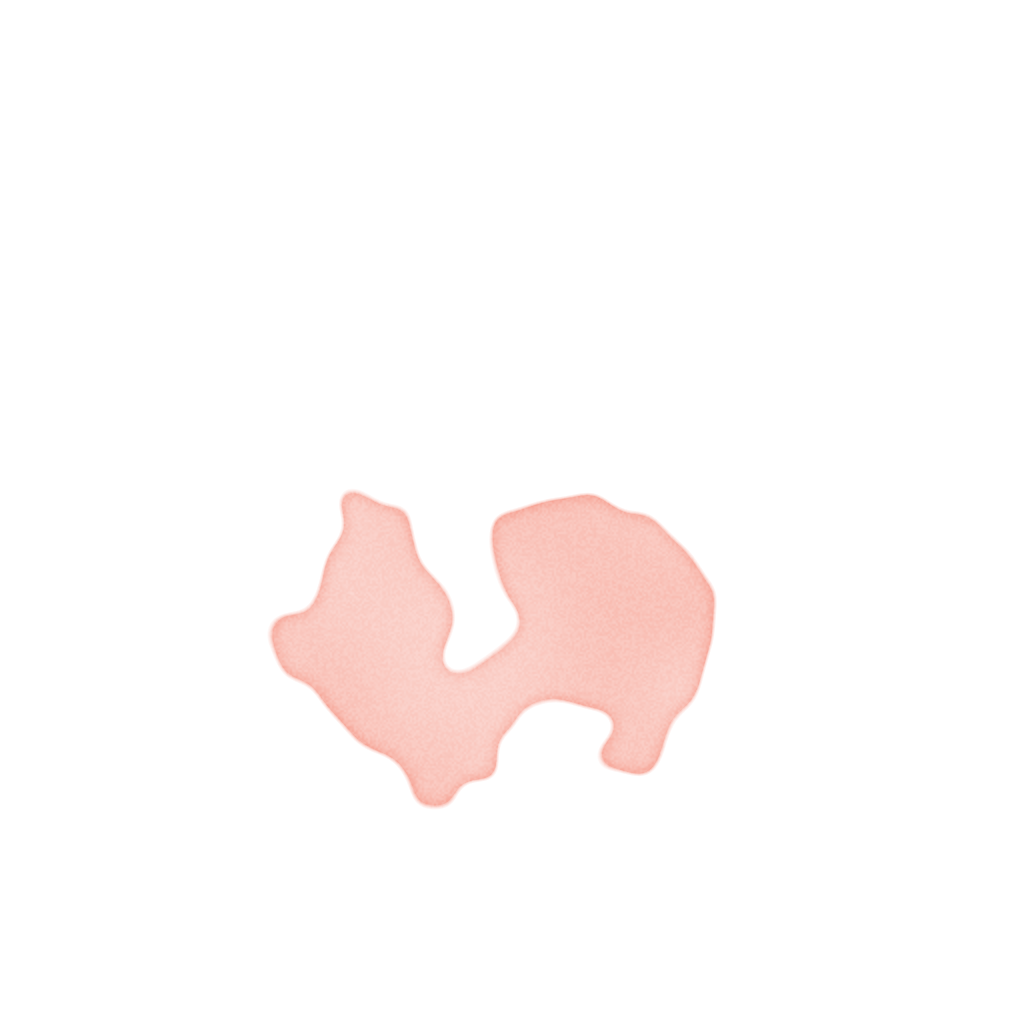
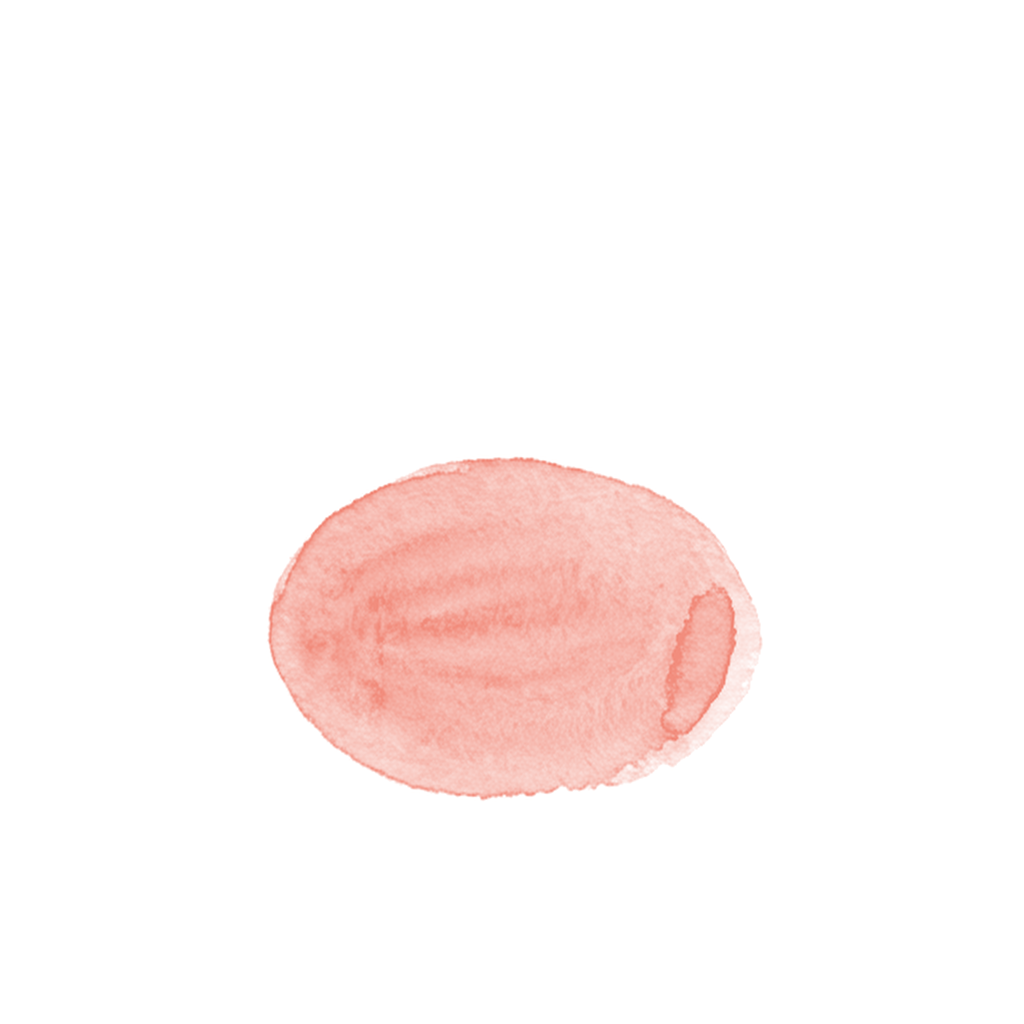
Watercolor comes from real painted patches, never from code
Code-computed tints read as flat fills. scripts/washes.py cuts a generated
swatch sheet into painted patches; color.py places the best-fitting patch
behind each chosen region, slightly larger, tilted and offset. The style
spec now states the rule and the two versions of every accepted drawing.

Changed region(s): [[0.25, 0.4375, 0.75, 0.8125]]

diff --git a/scripts/color.py b/scripts/color.py
@@ -1,17 +1,18 @@
-"""Paint loose coral watercolor into chosen regions of an ink drawing.
+"""Place real coral watercolor patches behind chosen regions of an ink drawing.
 
 usage:
   python3 -I scripts/color.py DIR --list
       writes DIR/regions.png: every closed region of the drawing with a number
-  python3 -I scripts/color.py DIR --regions 3,7,12 [--seed 1] [--close 9]
+  python3 -I scripts/color.py DIR --regions 6,7+8 [--patch wide] [--seed 1] [--close 9]
       writes DIR/color-wash.png (the watercolor layer), DIR/version-color.jpg
       (paper + watercolor + ink) and DIR/version-ink.jpg (paper + ink only)
 
-DIR holds layer-ink.png (from layers.py). A region is a connected area of paper
+DIR holds layer-ink.png (from layers.py). Regions joined by + get one patch
+together. The watercolor is never painted by code: a real painted patch from
+library/_washes (scripts/washes.py) is chosen by shape, scaled a little larger
+than the region, tilted and offset, and placed behind the ink. A region is a connected area of paper
 enclosed by ink; gaps narrower than --close (in half-size pixels) are closed
-first, because hand-drawn contours are often open. The watercolor follows the region loosely: it is shifted a
-little, its edge is irregular, it pools darker at the rim and carries paper
-grain, as references/style.md section 8 asks.
+first, because hand-drawn contours are often open.
 """
 import json
 import sys
@@ -20,7 +21,7 @@ import numpy as np
 from PIL import Image, ImageDraw, ImageFilter, ImageFont
 
 PAPER = (244, 242, 236)
-CORAL = (244, 142, 124)
+CORAL = (240, 128, 110)
 
 
 def opt(name, default=None):
@@ -108,22 +109,49 @@ def main():
         base.save(f"{d}/regions.png")
         print(f"{d}/regions.png: {len(keep)} regions")
         return
-    chosen = [int(v) for v in opt("--regions", "").split(",") if v]
+    groups = [[int(v) for v in g.split("+")] for g in opt("--regions", "").split(",") if g]
+    chosen = [i for g in groups for i in g]
+    forced = opt("--patch")
     rng = np.random.default_rng(int(opt("--seed", "1")))
-    small_mask = np.isin(lab, chosen).astype(np.float32)
-    if grow > 1:
-        img = Image.fromarray((small_mask * 255).astype(np.uint8))
-        small_mask = np.asarray(img.filter(ImageFilter.MaxFilter(grow | 1))).astype(np.float32) / 255
-    mask = np.asarray(Image.fromarray((small_mask * 255).astype(np.uint8)).resize(ink_img.size, Image.BILINEAR)).astype(np.float32) / 255
-    h, w = mask.shape
-    dx, dy = (rng.random(2) - 0.5) * 0.03 * w
-    shifted = np.roll(np.roll(mask, int(dy), 0), int(dx), 1)
-    loose = blur(shifted, 9) + (noise((h, w), 40, rng) - 0.5) * 0.55
-    body = np.clip((loose - 0.42) * 6, 0, 1)
-    rim = np.clip(body - blur(body, 7), 0, 1) * 1.6
-    density = 0.42 + 0.18 * noise((h, w), 90, rng) + rim * 0.35
-    grain = 0.8 + 0.2 * noise((h, w), 2, rng)
-    alpha = np.clip(body * density * grain, 0, 0.85)
+    root = __file__.rsplit("/scripts/", 1)[0]
+    import glob
+    patches = []
+    for f in sorted(glob.glob(f"{root}/library/_washes/patch-*.png")):
+        meta = json.load(open(f[:-4] + ".json"))
+        patches.append((f, meta))
+    if not patches:
+        print("no watercolor patches in library/_washes: run scripts/washes.py on a generated swatch sheet first")
+        sys.exit(1)
+    W, H = ink_img.size
+    wash = np.zeros((H, W), np.float32)
+    for g in groups:
+        ys, xs = np.nonzero(np.isin(lab, g))
+        x0, x1, y0, y1 = xs.min() * 2, xs.max() * 2, ys.min() * 2, ys.max() * 2
+        bw, bh = x1 - x0, y1 - y0
+        aspect = bw / max(1, bh)
+        pool = [p for p in patches if p[1].get("kind") not in ("heart", "splash")]
+        if forced:
+            pool = [p for p in patches if p[1].get("kind") == forced or p[0].endswith(f"patch-{forced.zfill(2)}.png")]
+        pool.sort(key=lambda p: abs(np.log(p[1]["aspect"] / aspect)))
+        f, meta = pool[min(len(pool) - 1, int(rng.integers(0, 2)))]
+        over = 1.12 + rng.random() * 0.12
+        tw, th = int(bw * over), int(bh * over)
+        patch = Image.open(f).resize((max(8, tw), max(8, th)), Image.LANCZOS).rotate(float((rng.random() - 0.5) * 10), expand=True, resample=Image.BICUBIC)
+        pa = np.asarray(patch).astype(np.float32)[..., 3] / 255
+        cx = (x0 + x1) / 2 + (rng.random() - 0.5) * 0.12 * bw
+        cy = (y0 + y1) / 2 + (rng.random() - 0.5) * 0.12 * bh
+        px, py = int(cx - pa.shape[1] / 2), int(cy - pa.shape[0] / 2)
+        sx0, sy0 = max(0, -px), max(0, -py)
+        dx0, dy0 = max(0, px), max(0, py)
+        dx1, dy1 = min(W, px + pa.shape[1]), min(H, py + pa.shape[0])
+        if dx1 <= dx0 or dy1 <= dy0:
+            continue
+        piece = pa[sy0:sy0 + dy1 - dy0, sx0:sx0 + dx1 - dx0]
+        region = wash[dy0:dy1, dx0:dx1]
+        wash[dy0:dy1, dx0:dx1] = 1 - (1 - region) * (1 - piece)
+        print(f"regions {g}: {meta.get('kind')} patch, {tw}x{th}")
+    alpha = np.clip(wash, 0, 1)
+    h, w = alpha.shape
     out = np.zeros((h, w, 4), np.uint8)
     out[..., :3] = CORAL
     out[..., 3] = (alpha * 255).astype(np.uint8)
@@ -131,7 +159,7 @@ def main():
     wash.save(f"{d}/color-wash.png", optimize=True)
     ys, xs = np.nonzero(alpha > 0.2)
     with open(f"{d}/color-wash.json", "w") as f:
-        json.dump({"size": [w, h], "bbox": [int(xs.min()), int(ys.min()), int(xs.max()), int(ys.max())], "regions": chosen}, f)
+        json.dump({"size": [w, h], "bbox": [int(xs.min()), int(ys.min()), int(xs.max()), int(ys.max())], "regions": groups}, f)
     for name, layers in (("version-color.jpg", [wash, ink_img]), ("version-ink.jpg", [ink_img])):
         base = Image.new("RGB", ink_img.size, PAPER)
         for layer in layers:

diff --git a/scripts/washes.py b/scripts/washes.py
@@ -1,0 +1,62 @@
+"""Cut a generated sheet of watercolor swatches into separate wash patches.
+
+usage: python3 -I scripts/washes.py library/_washes/sheet1.jpg library/_washes/
+
+Each swatch becomes patch-NN.png: the coral color with the painted texture kept
+in the alpha channel (pigment density from the green channel), cropped to the
+swatch, plus a .json with its aspect ratio. These real painted patches are what
+color.py places behind drawings; code never paints watercolor itself.
+"""
+import json
+import sys
+
+import numpy as np
+from PIL import Image, ImageFilter
+
+CORAL = (240, 128, 110)
+
+
+def main():
+    if len(sys.argv) < 3:
+        print(__doc__)
+        sys.exit(2)
+    src, out = sys.argv[1], sys.argv[2].rstrip("/")
+    a = np.asarray(Image.open(src).convert("RGB")).astype(np.float32)
+    g, r = a[..., 1], a[..., 0]
+    paper = np.percentile(g, 90)
+    alpha = np.clip((paper - g) / (paper - np.percentile(g, 1)), 0, 1)
+    alpha = np.clip((alpha - 0.1) / 0.9, 0, 1) * (r - g > 25)
+    blob = np.asarray(Image.fromarray((alpha > 0.12).astype(np.uint8) * 255).filter(ImageFilter.MaxFilter(15))) > 0
+    h, w = blob.shape
+    lab = np.zeros((h, w), np.int32)
+    n = 0
+    for y0 in range(0, h, 3):
+        for x0 in range(0, w, 3):
+            if blob[y0, x0] and not lab[y0, x0]:
+                n += 1
+                stack = [(y0, x0)]
+                lab[y0, x0] = n
+                while stack:
+                    y, x = stack.pop()
+                    for ny, nx in ((y + 1, x), (y - 1, x), (y, x + 1), (y, x - 1)):
+                        if 0 <= ny < h and 0 <= nx < w and blob[ny, nx] and not lab[ny, nx]:
+                            lab[ny, nx] = n
+                            stack.append((ny, nx))
+    k = 0
+    for i in range(1, n + 1):
+        ys, xs = np.nonzero(lab == i)
+        if len(ys) < 3000:
+            continue
+        y0, y1, x0, x1 = ys.min(), ys.max() + 1, xs.min(), xs.max() + 1
+        part = alpha[y0:y1, x0:x1] * (lab[y0:y1, x0:x1] == i)
+        img = np.zeros(part.shape + (4,), np.uint8)
+        img[..., :3] = CORAL
+        img[..., 3] = (np.clip(part * 0.9, 0, 1) * 255).astype(np.uint8)
+        k += 1
+        Image.fromarray(img, "RGBA").save(f"{out}/patch-{k:02d}.png", optimize=True)
+        with open(f"{out}/patch-{k:02d}.json", "w") as f:
+            json.dump({"size": [int(x1 - x0), int(y1 - y0)], "aspect": round((x1 - x0) / (y1 - y0), 3)}, f)
+        print(f"patch-{k:02d}: {x1 - x0}x{y1 - y0}")
+
+
+main()

diff --git a/SKILL.md b/SKILL.md
@@ -23,7 +23,7 @@ This skill makes drawings that look drawn by hand with a felt marker, then anima
 3. **Generate.** `node scripts/generate.mjs --subject "..." --out work/drawing.jpg` for one drawing, `--kind poses --poses 4` for a pose sheet, `--wash` when the idea uses coral watercolor. The style block from `references/style.md` is added for you; the whole prompt must stay under 1000 characters (`--dry` prints it). Describe what to draw, never which reference to copy.
 4. **Judge the drawing before anything else, with a fresh judge.** Never judge your own drawing yourself: start a separate agent that has none of this conversation, give it `references/judge.md` and the image path, and ask for the JSON verdict only. Any `false` answer: generate again, feeding the judge's reasons into the new prompt. Never animate a drawing that fails. When several drawings are needed, judge them in parallel.
 5. **Make layers.** `python3 -I scripts/layers.py work/drawing.jpg work/name` writes `name-ink.png` and `name-wash.png`. `python3 -I scripts/poses.py work/sheet.jpg work/pose` writes `pose1.png` and the next ones, aligned on the feet. Check that the number of poses found matches the sheet.
-5b. **Make the two versions of an accepted drawing.** Every accepted drawing exists without color (ink only) and with color. Color is always the coral watercolor, never another color or a flat fill. If the generation already holds watercolor, that is the color version. Otherwise `python3 -I scripts/color.py DIR --list` numbers the closed regions in `DIR/regions.png`; pick the regions that carry the idea (the piggy bank, the guitar body, two books of a stack), then `python3 -I scripts/color.py DIR --regions 6,12` writes `version-ink.jpg`, `version-color.jpg` and the `color-wash.png` layer. Leave people uncolored unless they are the idea.
+5b. **Make the two versions of an accepted drawing.** Every accepted drawing exists without color (ink only) and with color. Color is always the coral watercolor, really painted: never let code compute a tint, it reads as a flat fill. The painted patches live in `library/_washes` (cut from a generated swatch sheet by `scripts/washes.py`). If the generation already holds watercolor, that is the color version. Otherwise `python3 -I scripts/color.py DIR --list` numbers the closed regions in `DIR/regions.png`; pick the regions that carry the idea (the piggy bank, the guitar body, two books of a stack), then `python3 -I scripts/color.py DIR --regions 6,7+8` places a real painted patch behind each region (or group joined by +) and writes `version-ink.jpg`, `version-color.jpg` and the `color-wash.png` layer. Leave people uncolored unless they are the idea.
 6. **Write the scene.** `scene.json` next to the images (`references/motion.md`, section 3). Start from the closest example. Put origins where things really pivot: the feet for a character, the centre of a heart.
 7. **Build and check.** `node scripts/build.mjs work/scene.json --out work/name.html`, then `node scripts/check.mjs work/name.html --times 0,600,...`. The check must print `0 problems`. Read the contact sheet PNG it writes: does each frame read, does the story show, does anything overlap badly (a coral element on a coral area, a heart on a face)? Fix and repeat.
 8. **Deliver** the HTML page. To preview it, never open it in the person's default browser, which may be in use; ask, or use another browser.

diff --git a/references/style.md b/references/style.md
@@ -61,6 +61,9 @@ No other color, no gradient, no shadow, no texture on ink or paper.
 - Loose: behind the ink, overflowing the contour or offset from it. It never traces the contour.
 - Translucent, soft irregular edge, light paper grain, pigment pooling at the rim.
 - It covers at most 20% of the canvas.
+- **Watercolor is always really painted, never computed.** It comes from the generator: either inside the generated drawing, or as a real painted patch from `library/_washes` placed behind the ink by `scripts/color.py`. A tint computed by code reads as a flat fill, even with noise and grain (rejected 2026-11-07: the piggy bank, guitar and books looked like three flat fills next to the painted door).
+- What makes it watercolor: visible brush strokes, uneven pigment, darker pooling at the rim, light streaks and gaps, paper grain, and a shape that overflows the object instead of filling it.
+- **Every accepted drawing has two versions**: ink only, and with watercolor. Color is always this watercolor.
 - **A watercolor element never sits on another watercolor area**: coral on coral disappears (rejected: a coral heart rising over a coral background).
 
 ## 9. Composition
